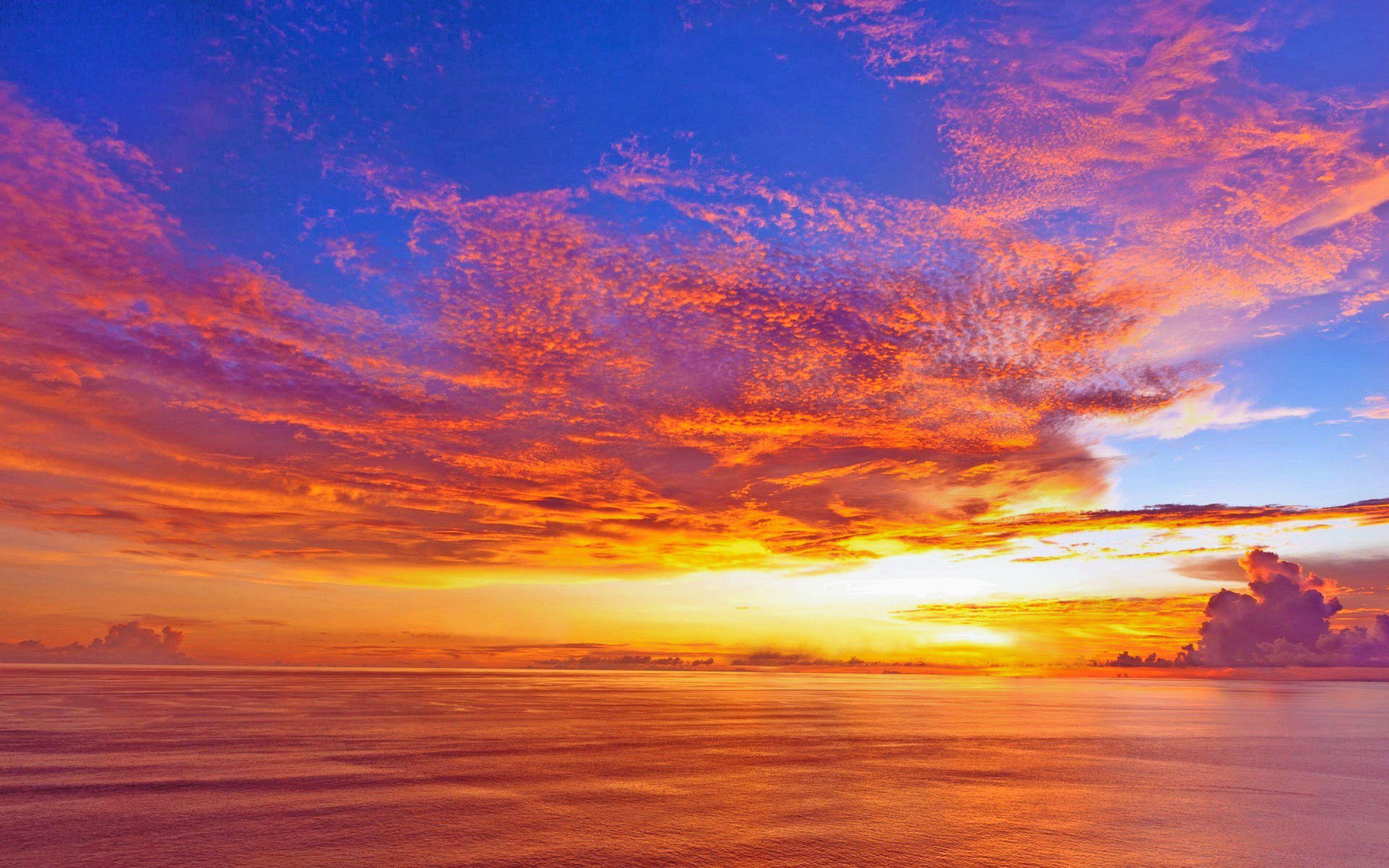
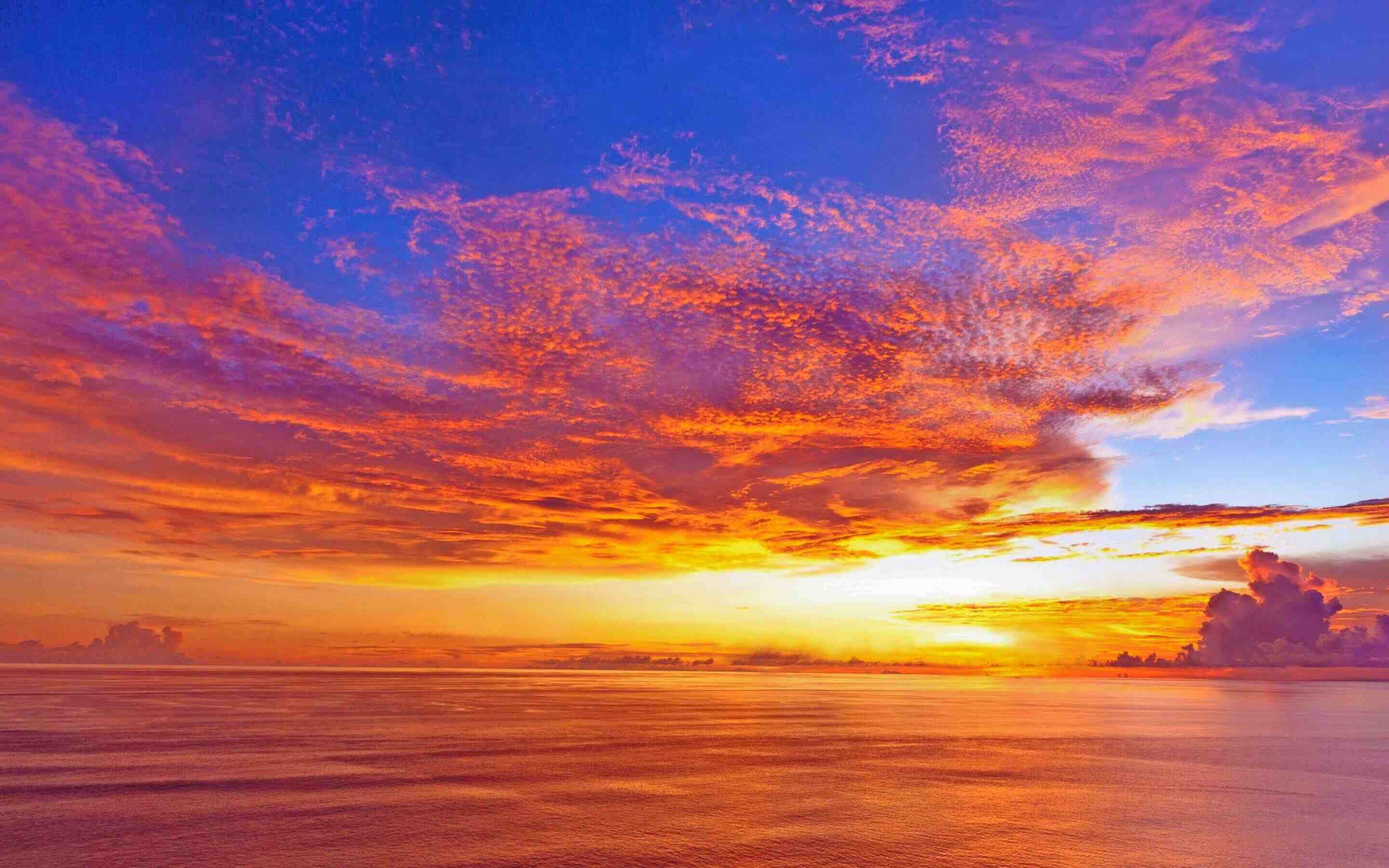
Added tests and resized image

diff --git a/src/App.test.jsx b/src/App.test.jsx
@@ -1,12 +1,80 @@
-/* eslint-disable no-undef */
-import { render, screen } from "@testing-library/react";
+import { render, screen, fireEvent, waitFor } from "@testing-library/react";
+import { MemoryRouter, Route, Routes } from "react-router-dom";
 import App from "./App";
+import Layout from "./components/Layout/Layout";
+import WeatherDetail from "./pages/WeatherDetail";
+import CurrentWeatherCard from "./components/CityWeatherItem";
 import { expect } from "vitest";
 
+// A component that wraps the Layout and Route
+const LayoutRouteWrapper = ({ children }) => (
+  <Layout>
+    <Routes>
+      <Route path="/" element={<App />} />
+      {children}
+    </Routes>
+  </Layout>
+);
+
 describe("App", () => {
-  it("should have hello world", () => {
-    render(<App />);
-    const message = screen.queryByText(/Hello world/i);
-    expect(message).toBeInTheDocument();
+  it("App contains home components", () => {
+    render(
+      <MemoryRouter>
+        <App />
+      </MemoryRouter>
+    );
+    const component1 = screen.getByTestId("home");
+
+    expect(component1).toBeInTheDocument();
+
+    // const message = screen.queryByText(/Hello world/i);
+    // expect(message).toBeInTheDocument();
+  });
+
+  it("App contains Weather detail component", () => {
+    const { getByTestId } = render(
+      <MemoryRouter initialEntries={["/city-details/lagos"]}>
+        <LayoutRouteWrapper>
+          <Route
+            path="/city-details/:cityName"
+            element={<WeatherDetail data-testid="details" />}
+          />
+        </LayoutRouteWrapper>
+      </MemoryRouter>
+    );
+
+    const weatherDetailComponent = getByTestId("details");
+    expect(weatherDetailComponent).toBeInTheDocument();
+  });
+
+  it("renders view", () => {
+    const { getByTestId } = render(
+      <MemoryRouter>
+        <CurrentWeatherCard />
+      </MemoryRouter>
+    );
+    const view = getByTestId("view");
+    expect(view).toBeInTheDocument();
+  });
+
+  it("CurrentWeatherCard navigates to weatherDetail with data(latitude) and Texarea", async () => {
+    render(
+      <MemoryRouter>
+        <CurrentWeatherCard />
+        <WeatherDetail />
+      </MemoryRouter>
+    );
+    const viewButton = screen.getByTestId("view");
+    fireEvent.click(viewButton);
+
+    // Wait for the WeatherDetail component to load (adjust selector as needed)
+    await waitFor(() => screen.getByTestId("weather-detail-textarea"));
+    await waitFor(() => screen.getByTestId("temp"));
+
+    // Assert that the TextArea is present
+    const textArea = screen.getByTestId("weather-detail-textarea");
+    const span = screen.getByTestId("temp");
+    expect(textArea).toBeInTheDocument();
+    expect(span).toBeInTheDocument();
   });
 });

diff --git a/src/pages/WeatherDetail.jsx b/src/pages/WeatherDetail.jsx
@@ -27,7 +27,10 @@ const WeatherDetail = () => {
 
   return (
     <Layout>
-      <div className="detail w-full p-10 min-h-screen flex flex-col justify-center">
+      <div
+        className="detail w-full p-10 min-h-screen flex flex-col justify-center"
+        data-testid="details"
+      >
         <h1 className="text-white font-bold text-4xl cursor-pointer -mt-4 mb-4 flex gap-x-6 items-center">
           <FaArrowAltCircleLeft
             size="30px"

diff --git a/src/components/LeftAside/LeftAside.jsx b/src/components/LeftAside/LeftAside.jsx
@@ -17,7 +17,10 @@ const LeftAside = ({ data }) => {
           )}
 
           <p className="">
-            <span className="font-extrabold text-white text-4xl">
+            <span
+              data-testid="temp"
+              className="font-extrabold text-white text-4xl"
+            >
               {data?.temperature
                 ? `${data.temperature}°C`
                 : `Latitude: ${Math.round(data?.lat * 100) / 100}`}

diff --git a/src/App.jsx b/src/App.jsx
@@ -6,8 +6,11 @@ function App() {
   return (
     <>
       <Routes>
-        <Route path="/" element={<Home />} />
-        <Route path="/city-details/:cityName" element={<WeatherDetail />} />
+        <Route path="/" element={<Home data-testid="home" />} />
+        <Route
+          path="/city-details/:cityName"
+          element={<WeatherDetail data-testid="details" />}
+        />
       </Routes>
     </>
   );

diff --git a/src/pages/Home.jsx b/src/pages/Home.jsx
@@ -20,7 +20,10 @@ const Home = () => {
 
   return (
     <>
-      <div className="home w-full min-h-screen p-8 flex flex-col gap-10">
+      <div
+        className="home w-full min-h-screen p-8 flex flex-col gap-10"
+        data-testid="home"
+      >
         <h1 className="text-sky-300 font-extrabold text-4xl logoT">
           Weatherio
         </h1>

diff --git a/src/components/CityWeatherItem.jsx b/src/components/CityWeatherItem.jsx
@@ -21,6 +21,7 @@ const CurrentWeatherCard = ({
         <p className="font-extrabold text-2xl flex justify-between items-center">
           {name}
           <button
+            data-testid="view"
             className="font-bold underline text-sm text-[#1b3474]"
             onClick={
               handleNavigate

diff --git a/src/components/RightAside/RightAside.jsx b/src/components/RightAside/RightAside.jsx
@@ -18,6 +18,7 @@ const RightAside = ({
           onChange={handleNotesChange}
           className="bg-white rounded-lg outline-none text-black p-4"
           rows={6}
+          data-testid="weather-detail-textarea"
         />
         <div className="flex justify-end gap-x-8">
           <button
